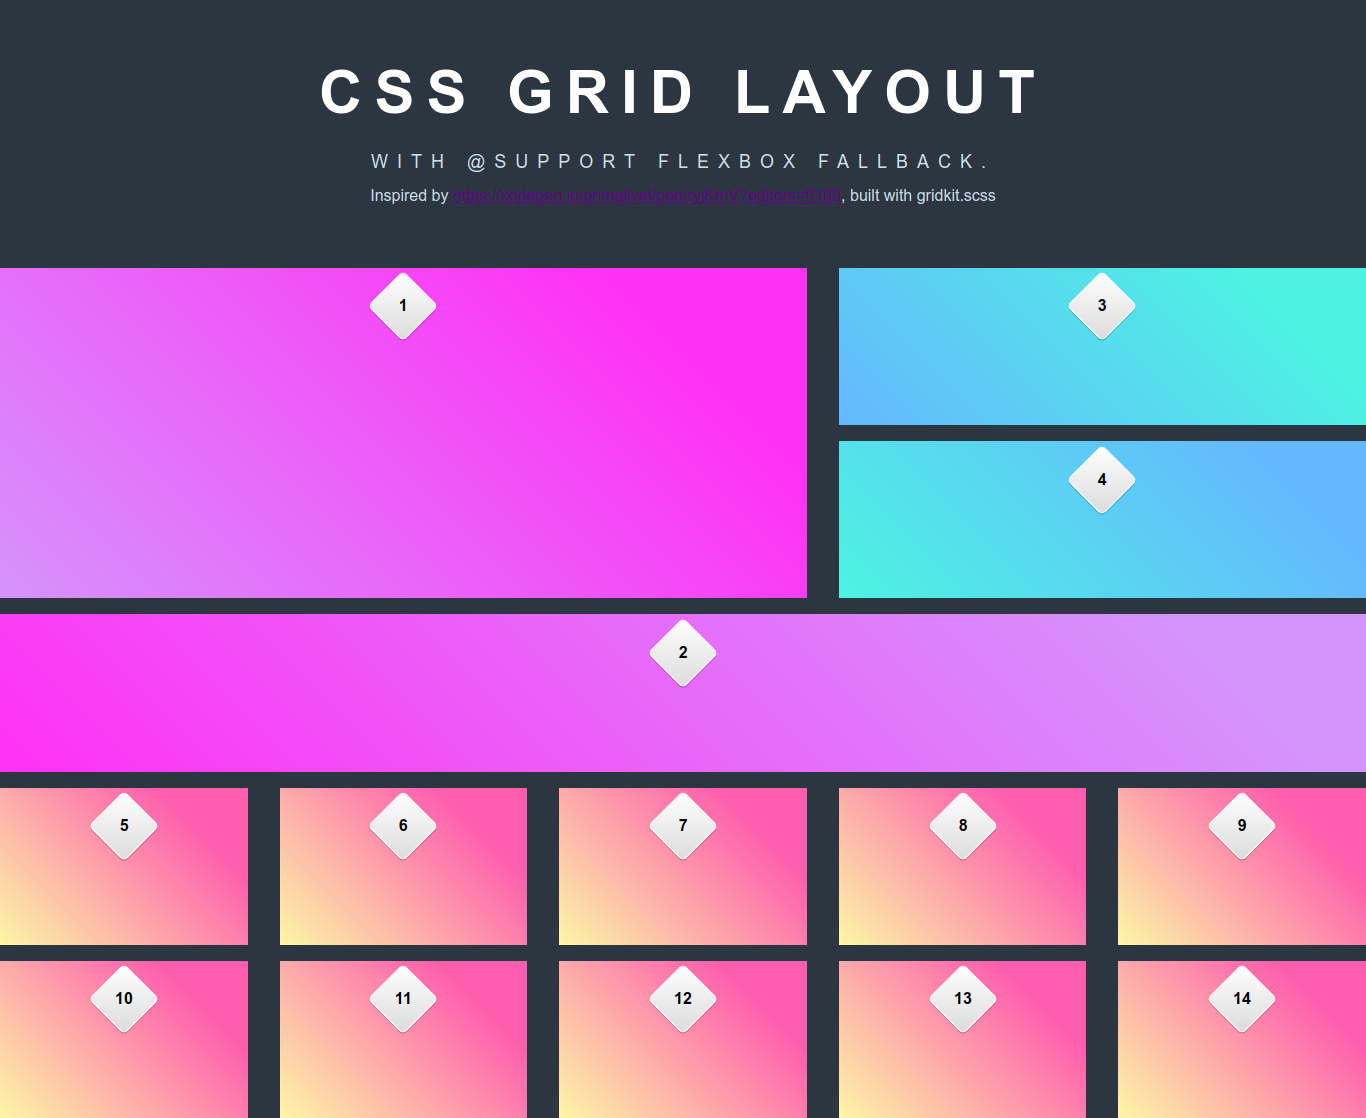
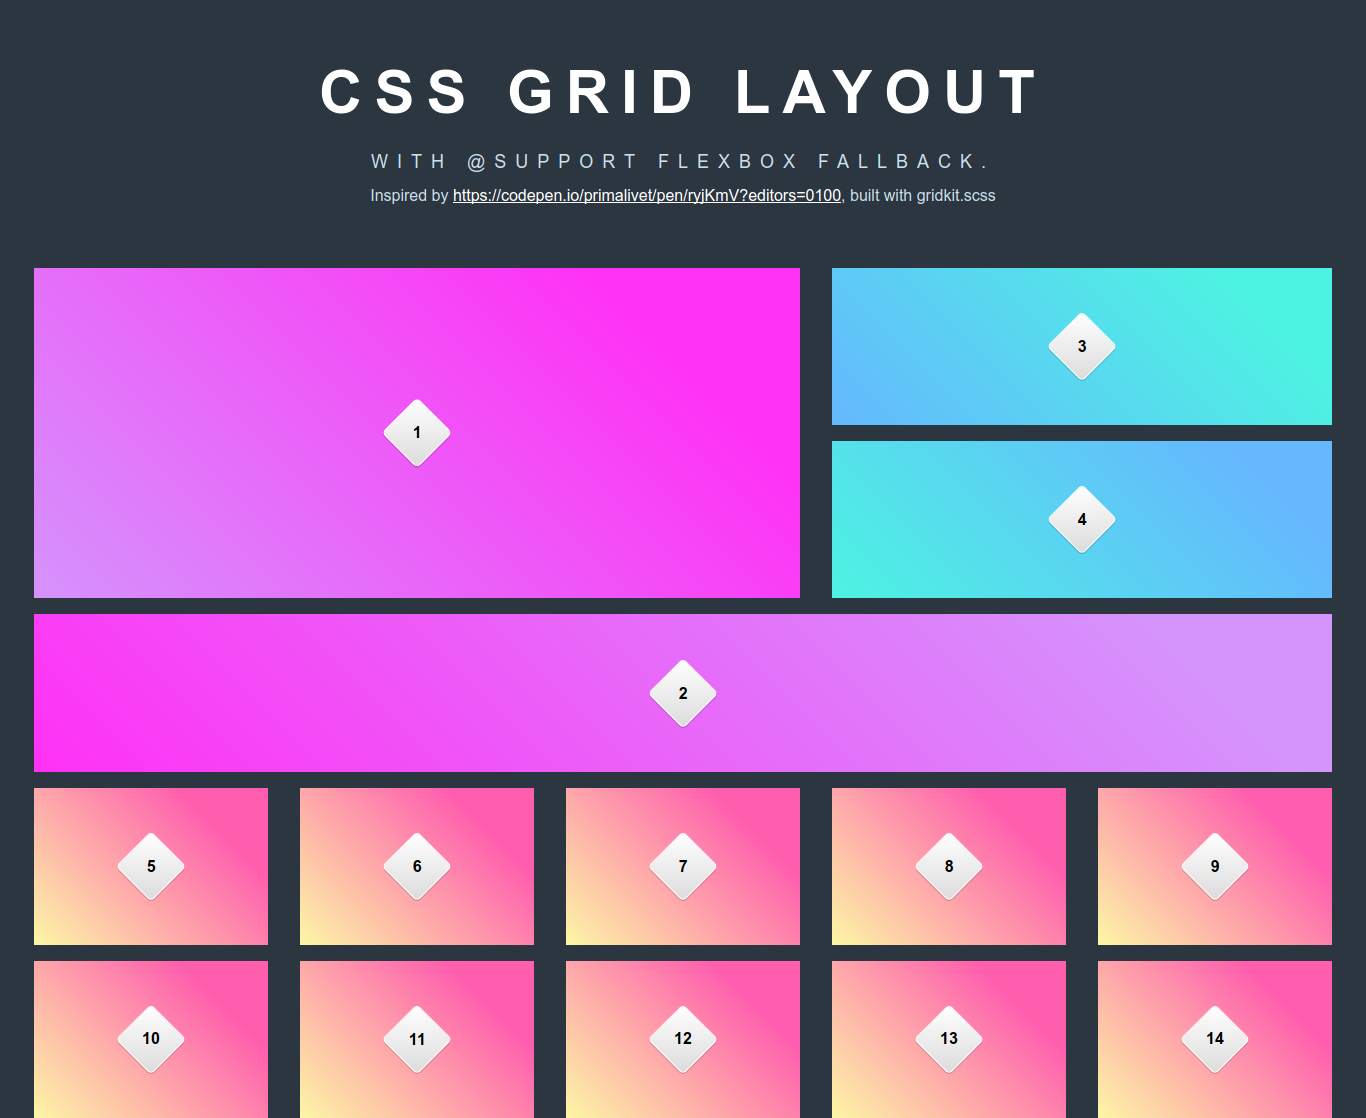
Correct alignment of grid item's box!

diff --git a/demo/demo.scss b/demo/demo.scss
@@ -206,6 +206,14 @@ a {
 
 .grid .item {
   position: relative;
+  
+  .box {
+    position: absolute;
+    top: 50%;
+    left: 50%;
+    transform: translate(-50%, -50%);
+  }
+
   padding: 1vw;
   background-position:  left bottom;
   background-size: 150% 100%;
